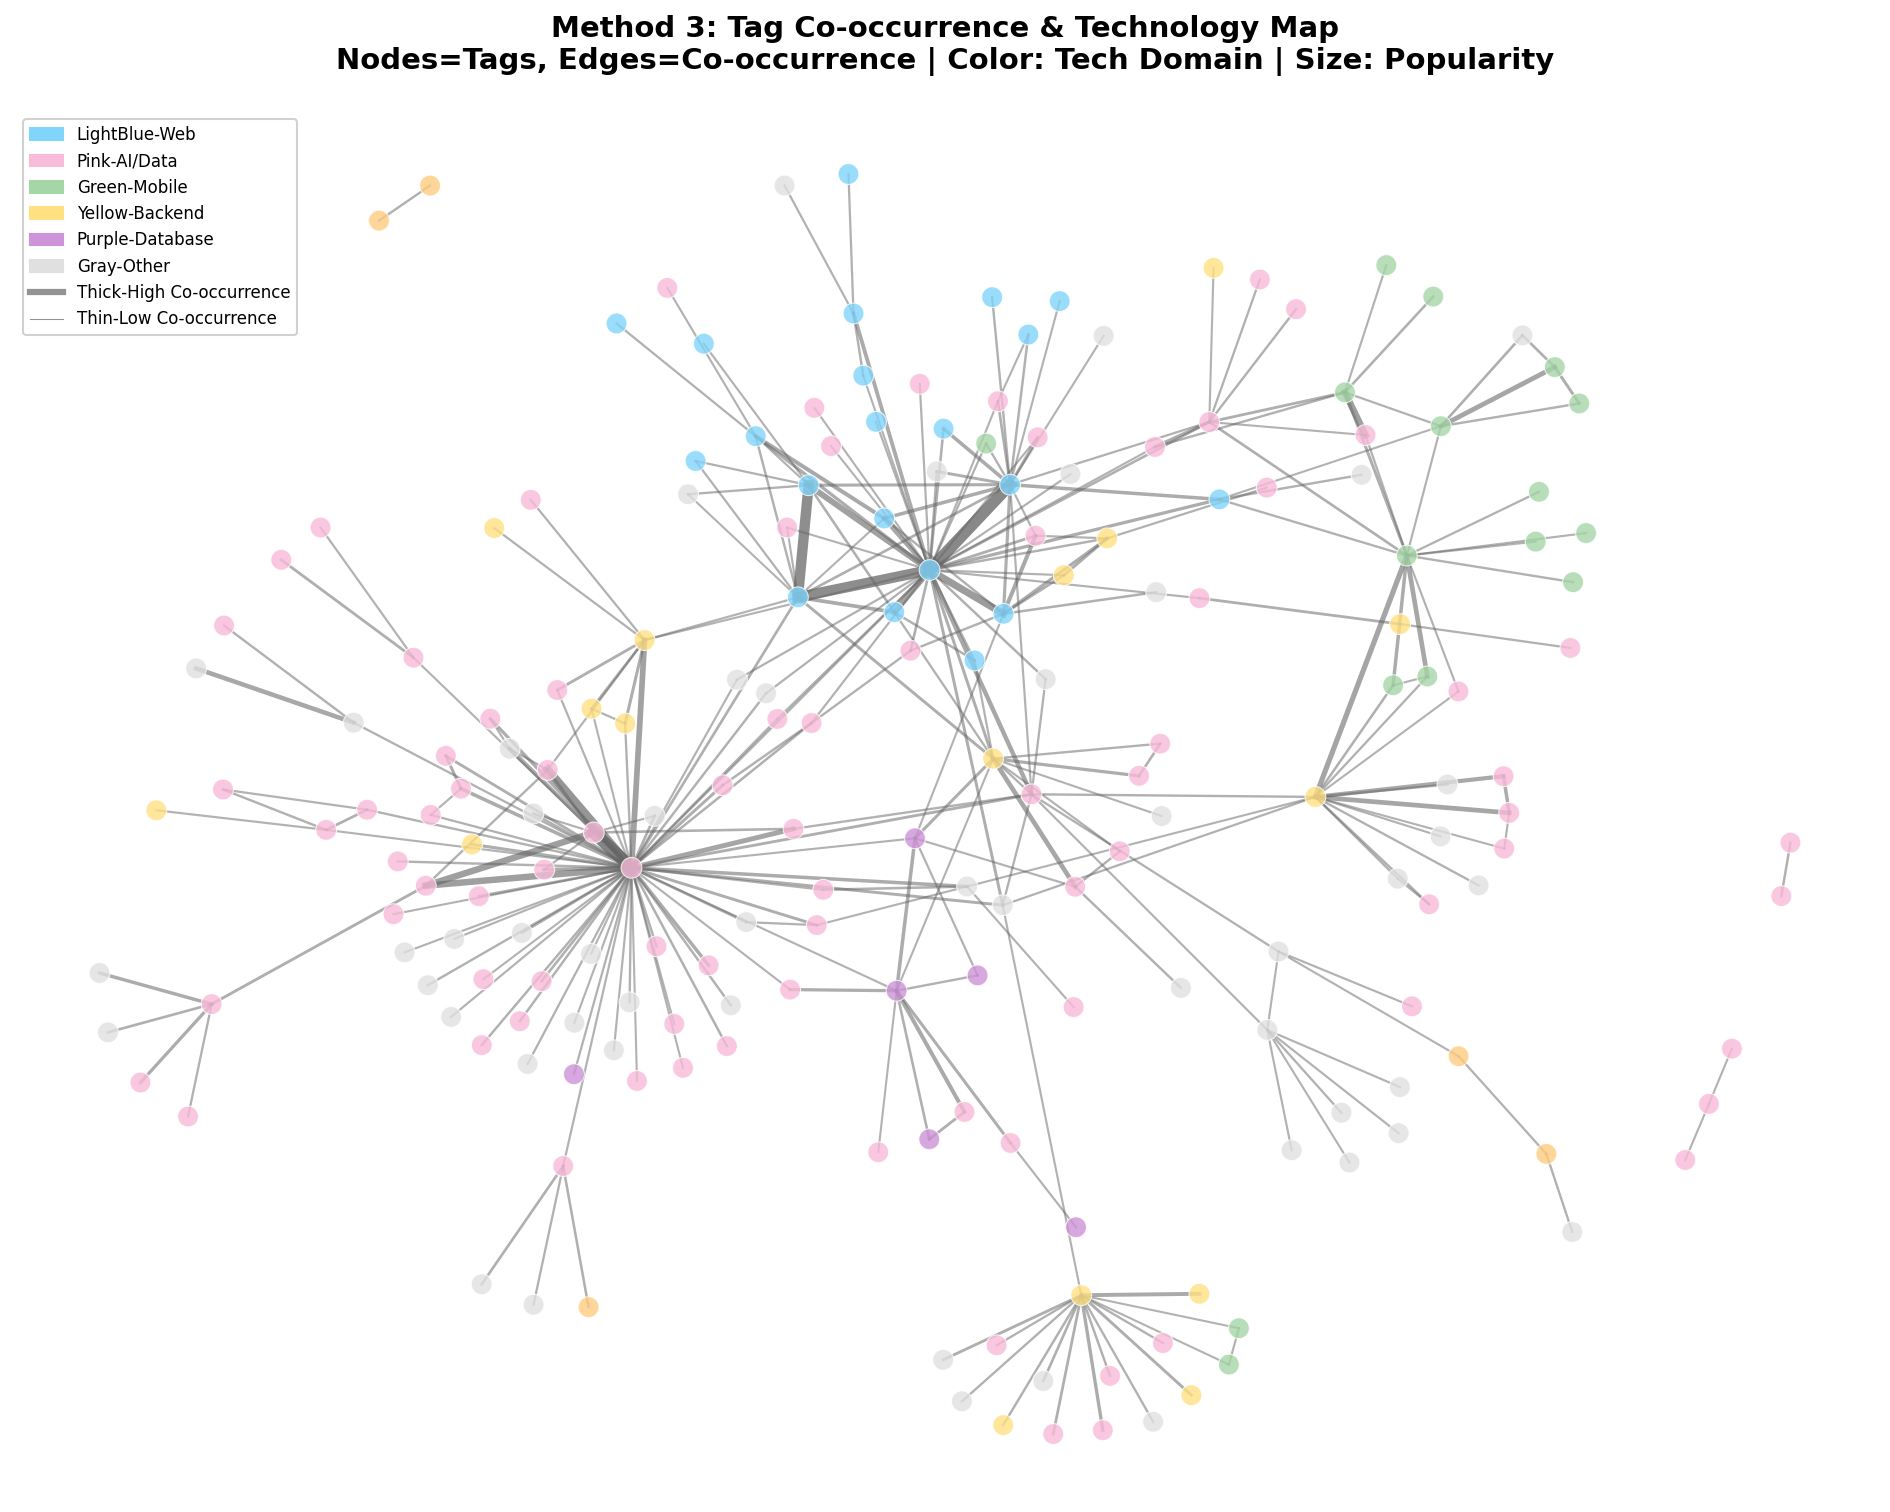
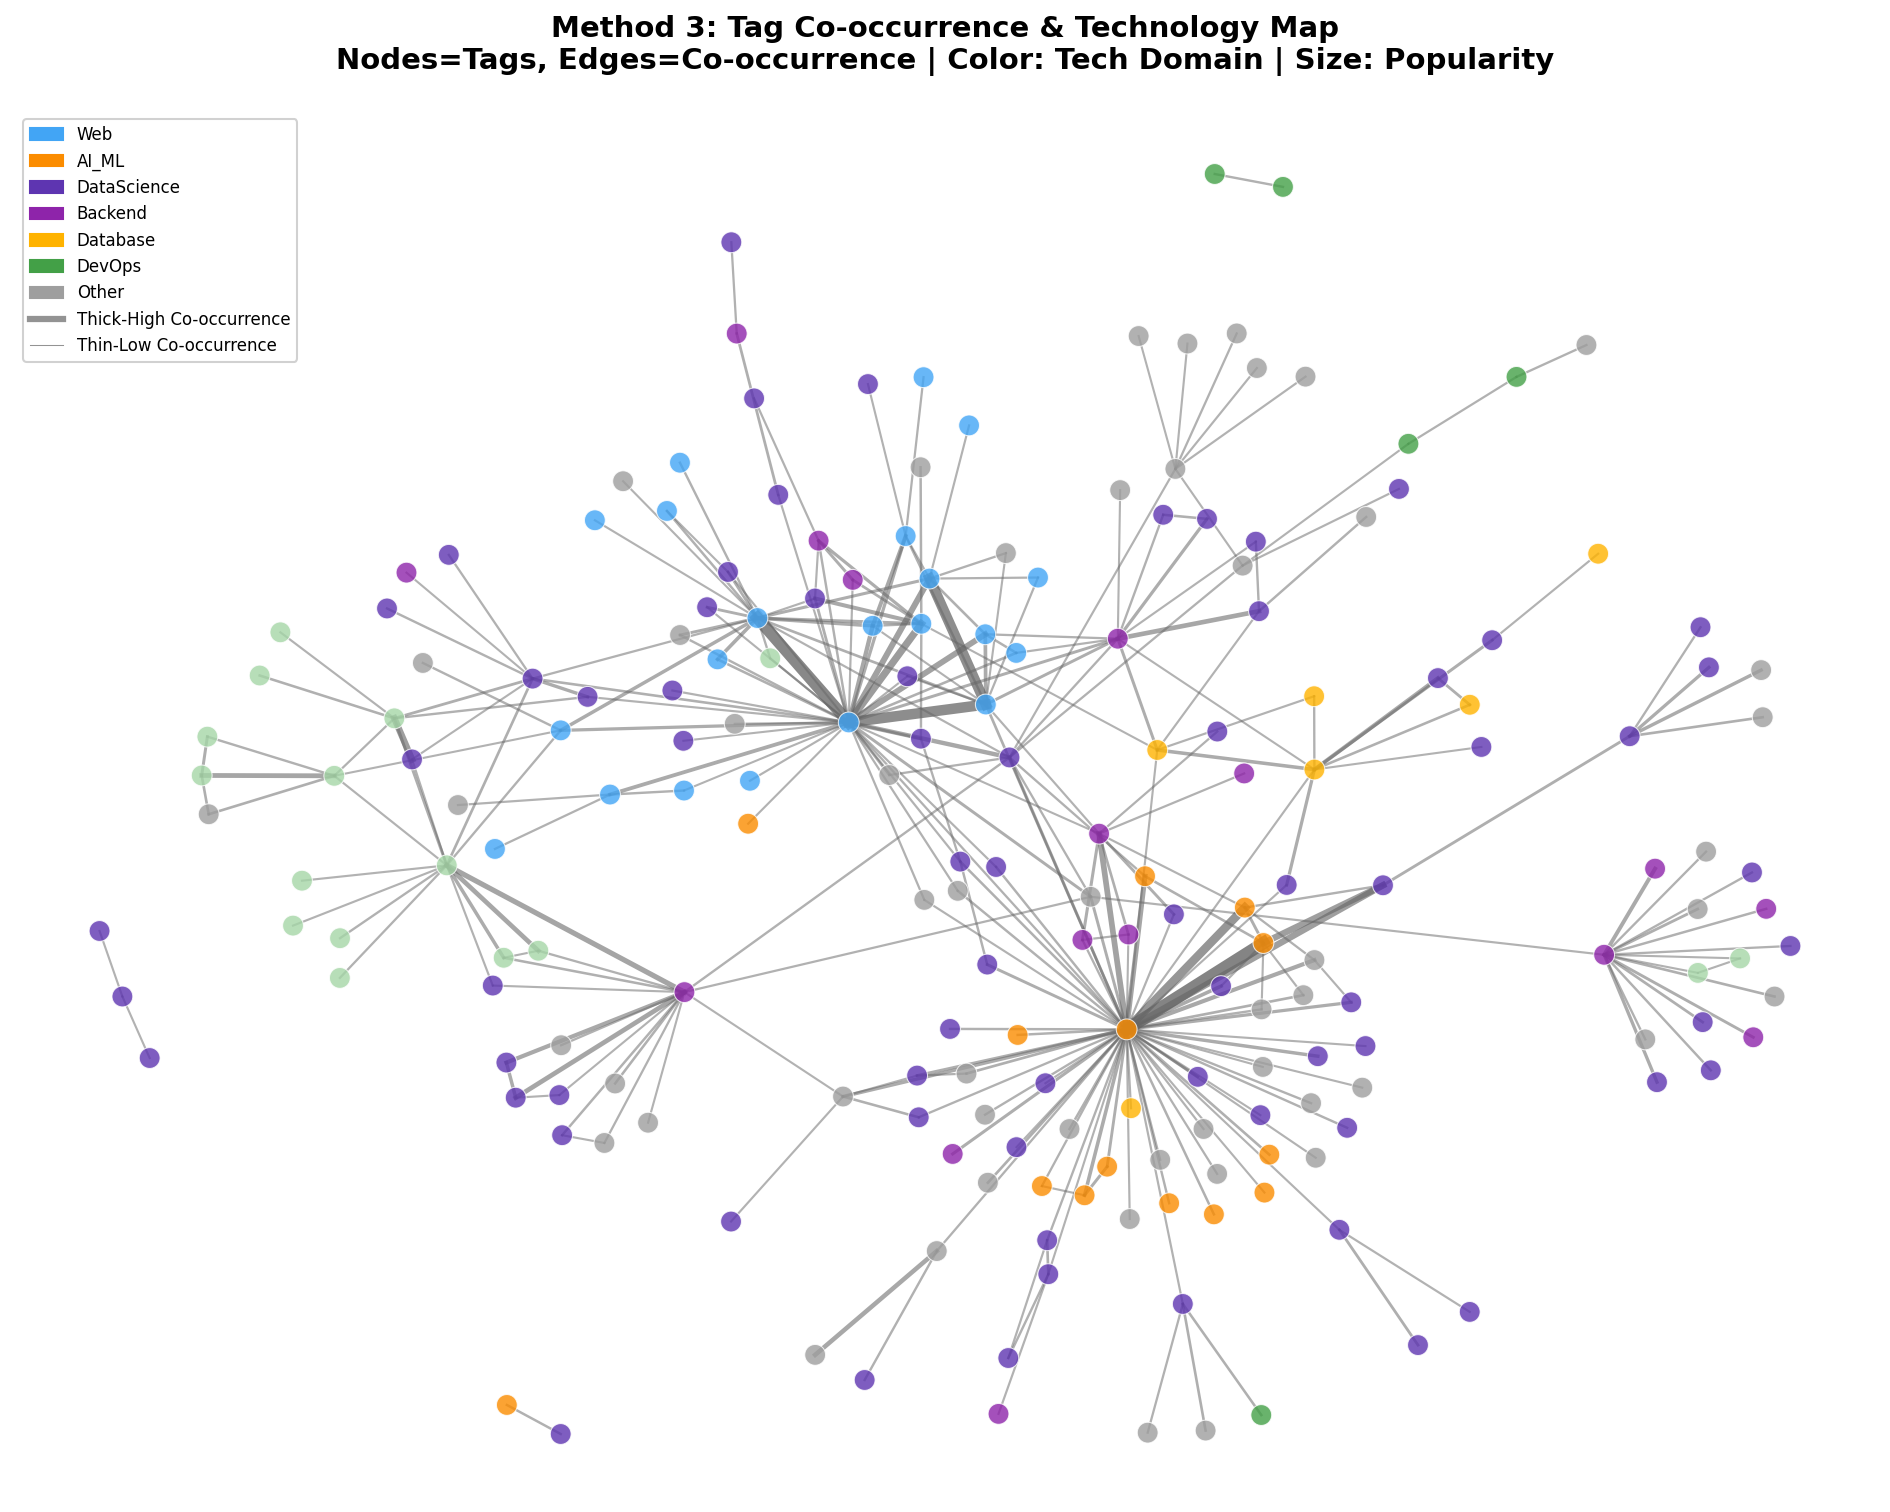
[update] Update color mappings for analysis visualizations

diff --git a/src/visualization/plots.py b/src/visualization/plots.py
@@ -37,14 +37,14 @@ COLOR_MAPS = {
         "0_Unresolved": "#9E9E9E",  # 灰色 - 未解決
     },
     "tech_domain": {
-        "Web": "#81D4FA",  # 淡藍色 - Web技術
-        "AI_ML": "#F8BBD9",  # 桃紅色 - 數據科學/AI
-        "Mobile": "#A5D6A7",  # 綠色 - 行動開發
-        "DataScience": "#F8BBD9",  # 桃紅色 - 數據科學
-        "Backend": "#FFE082",  # 黃色 - 後端
-        "Database": "#CE93D8",  # 紫色 - 資料庫
-        "DevOps": "#FFCC80",  # 橙色 - DevOps
-        "Other": "#E0E0E0",  # 灰色 - 其他
+        "Web": "#42A5F5",  # Web技術
+        "AI_ML": "#FB8C00",  # AI/ML
+        "Mobile": "#A5D6A7",  # 行動開發
+        "DataScience": "#5E35B1",  # 資料科學
+        "Backend": "#8E24AA",  # 後端
+        "Database": "#FFB300",  # 資料庫
+        "DevOps": "#43A047",  # DevOps
+        "Other": "#9E9E9E",  # 其他
     },
     "connectivity": {
         "main_component": "#1565C0",  # 深藍色 - 主連通分量

diff --git a/src/sna_runner.py b/src/sna_runner.py
@@ -293,12 +293,13 @@ class SNARunner:
             },
             "analysis_3": {
                 "colors": {
-                    "LightBlue-Web": "#81D4FA",
-                    "Pink-AI/Data": "#F8BBD9",
-                    "Green-Mobile": "#A5D6A7",
-                    "Yellow-Backend": "#FFE082",
-                    "Purple-Database": "#CE93D8",
-                    "Gray-Other": "#E0E0E0",
+                    "Web": "#42A5F5",
+                    "AI_ML": "#FB8C00",
+                    "DataScience": "#5E35B1",
+                    "Backend": "#8E24AA",
+                    "Database": "#FFB300",
+                    "DevOps": "#43A047",
+                    "Other": "#9E9E9E",
                 },
                 "edge_weights": {
                     "Thick-High Co-occurrence": 3.0,
